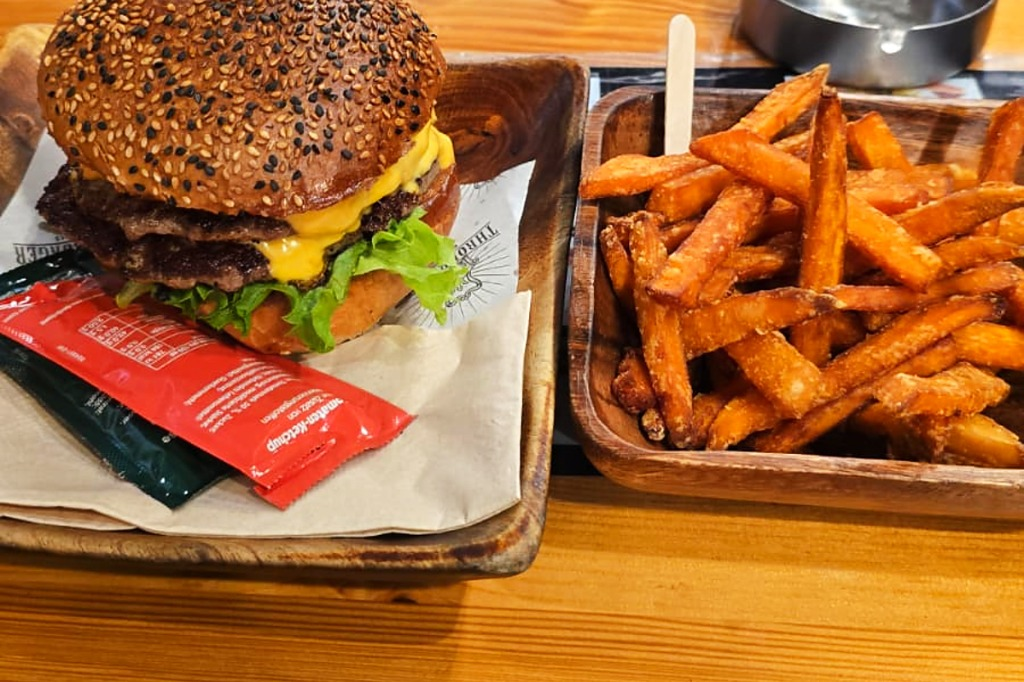
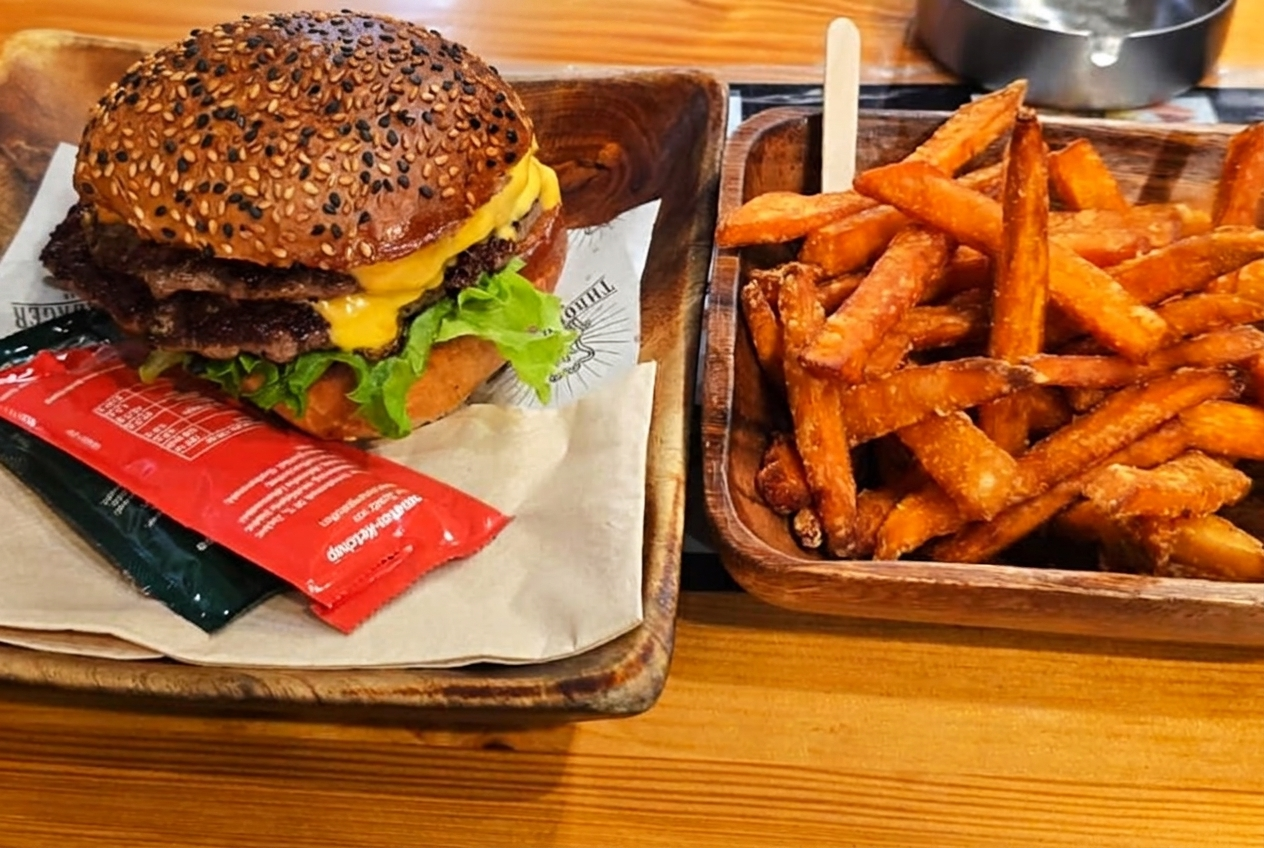
fix(thronburger): expand headroom on hero image to ensure full uncropped sesame bun

diff --git a/src/routes/magazin.community.thronburger-berlin.tsx b/src/routes/magazin.community.thronburger-berlin.tsx
@@ -315,7 +315,7 @@ I will attach my own photos or videos to this email.`;
                       ? "Halal Beef Burger im Sesam-Brioche mit geschmolzenem Käse und Süßkartoffel-Pommes bei Thronburger Berlin"
                       : "Halal beef burger with a sesame brioche, melted cheese and sweet potato fries at Thronburger Berlin"
                   }
-                  className="w-full h-auto object-cover max-h-[680px]"
+                  className="w-full h-auto block"
                 />
               </div>
               <figcaption className="mt-3 text-xs sm:text-sm text-forest/70 flex items-center justify-between px-2 font-medium">
@@ -398,7 +398,7 @@ I will attach my own photos or videos to this email.`;
                       ? "Draufsicht auf den Burger im Sesam-Brioche und die Schale Süßkartoffel-Pommes bei Thronburger Berlin"
                       : "Overhead view of burger in sesame brioche and sweet potato fries at Thronburger Berlin"
                   }
-                  className="w-full h-auto object-cover max-h-[680px]"
+                  className="w-full h-auto block"
                 />
               </div>
               <figcaption className="mt-3 text-xs sm:text-sm text-forest/70 flex items-center justify-between px-2 font-medium">
@@ -459,7 +459,7 @@ I will attach my own photos or videos to this email.`;
                       ? "Burger und Süßkartoffel-Pommes auf Holztabletts serviert bei Thronburger Berlin"
                       : "A Thronburger burger and sweet potato fries served on wooden trays"
                   }
-                  className="w-full h-auto object-cover max-h-[680px]"
+                  className="w-full h-auto block"
                 />
               </div>
               <figcaption className="mt-3 text-xs sm:text-sm text-forest/70 flex items-center justify-between px-2 font-medium">
